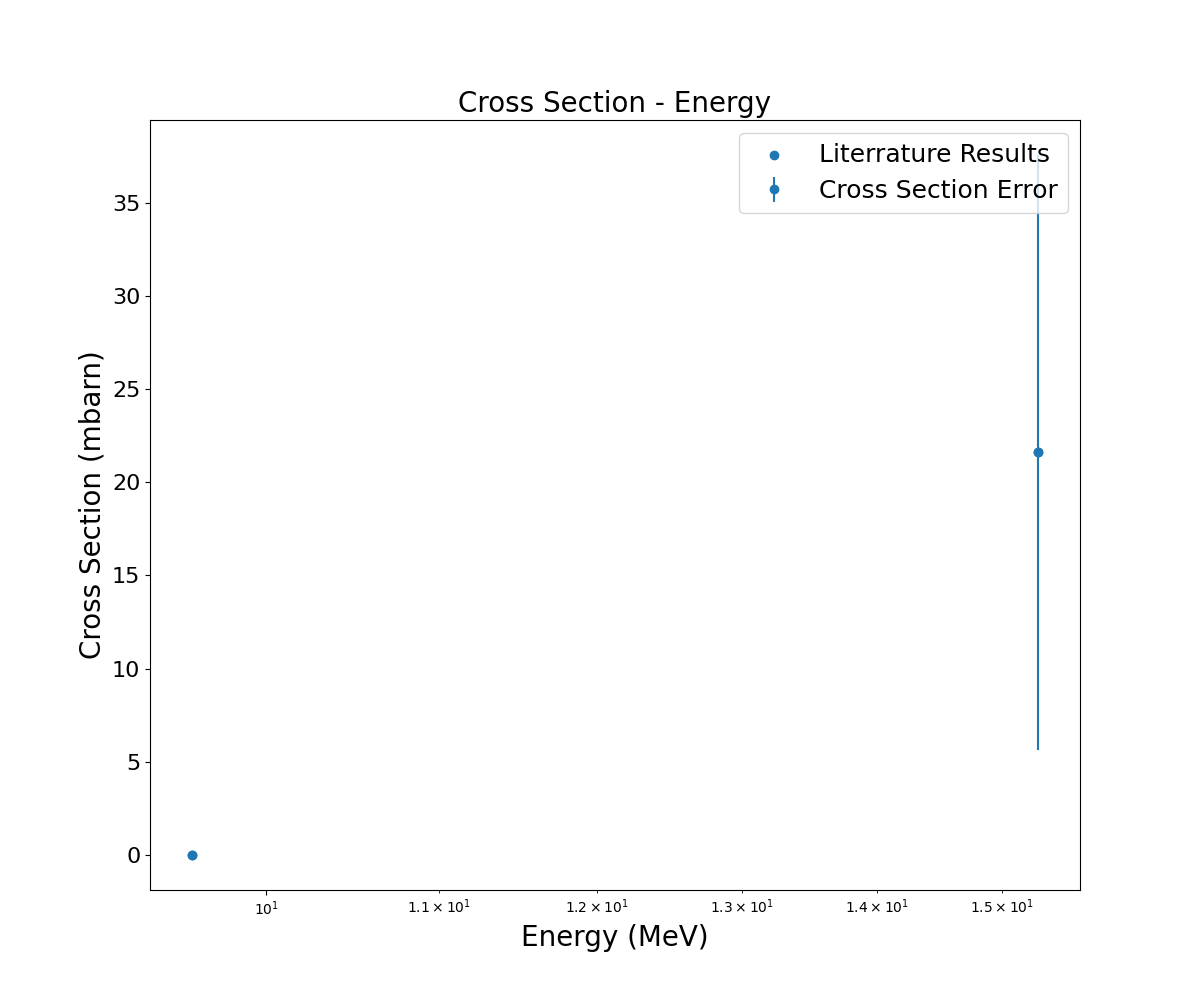
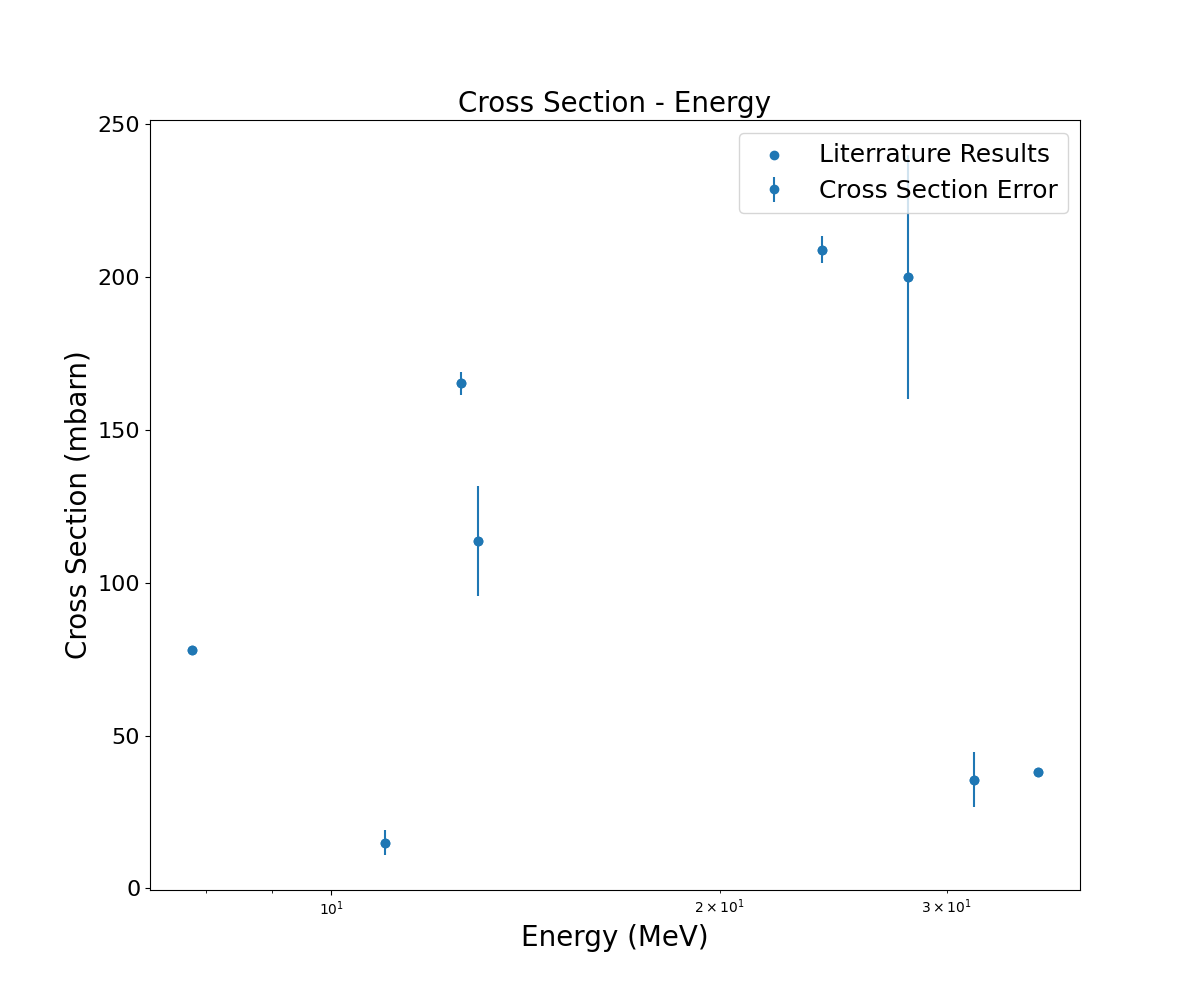
Fixes for Graph and general crashes

diff --git a/templates/results.html b/templates/results.html
@@ -46,9 +46,13 @@
                             <th>Electron Capture</td>
                         </tr>
                         <tr>
-                        {% for product in product %}
-                            <td>{{product}}</td>
-                        {% endfor %}
+                        {%if product%}
+                            {% for product in product %}
+                                <td>{{product}}</td>
+                            {% endfor %}
+                        {%else%}
+                            <h2>You forgot to add the product element :P</h2>
+                        {%endif%}
                         </tr>
                     </table>
                 </p>
@@ -126,7 +130,13 @@
                 </table>
                 </p>
                 <br>
-                <img id="Energy-Cross" src="../static/images/Plot.png" alt="Energy Plot">
+                {% set image_url = "../static/images/Plot.png" %}
+                {% if image_url %}
+                    <img id="Energy-Cross" src="{{ image_url }}" >
+                {% else %}
+                    <p>No image found.</p>
+                {% endif %}
+
                 <p>
             </div>
         </div>     

diff --git a/logic.py b/logic.py
@@ -8,6 +8,7 @@ plt.switch_backend('agg')
 from pathlib import Path
 import pandas as pd
 import numpy as np
+import os
 
 
 
@@ -32,15 +33,15 @@ file_path = Path("calculation.txt")
 
 
 def generate_plot(x_values,y_values,yerror, title, x_label, y_label):
-    # if file_path.exists():
-    #     dataframe=pd.read_csv("calculation.txt", delimiter=" ", skiprows=5, header=None)
-    #     print(dataframe)
-    #     energycal=dataframe[0]
-    #     crossSecCal=dataframe[1]
+    if file_path.exists():
+        dataframe=pd.read_csv("calculation.txt", delimiter=" ", skiprows=5, header=None)
+        print(dataframe)
+        energycal=dataframe[0]
+        crossSecCal=dataframe[1]
+        plt.plot(energycal,crossSecCal, "g",marker="+", label="Talys results")
     plt.figure(figsize=(12, 10))  # Set the figure size
     plt.scatter(x_values, y_values, marker='o', label="Literrature Results")  # Create the plot
     plt.errorbar(x_values, y_values, yerr=yerror, fmt='o', label="Cross Section Error")
-    #plt.plot(energycal,crossSecCal, "g",marker="+", label="Talys results")
     plt.title(title, size=20)  # Set the plot title
     decimal_places = 1  # Set the number of decimal places you want to display
     #plt.xticks(energycal, [f"{float(x):.{decimal_places}f}" for x in energycal], size=16)
@@ -150,6 +151,7 @@ def results():
                     FROM elements 
                     WHERE name='{inpElement}'"""
             elementDetails = execute_query(elementQuery)
+            print("elemetn", elementDetails)
 
             
             gammaQuery = f"""
@@ -182,20 +184,17 @@ def results():
             energy_values = [entry[2] for entry in energyResults]
             cross_Section = [entry[3] for entry in energyResults]
             yerror = [float(entry[4]) for entry in energyResults]
-            # for error in energyResults:
-            #     scientific_value_str = error[4]
-            #     try:
-            #         yerror = float(scientific_value_str)
-            #         print(yerror)
-            #     except ValueError as e:
-            #         print("Error converting:", e)
+        
 
             print("energyvalues",energy_values)
             print("cross Section",cross_Section)
             print("error",yerror)
+            if os.path.exists("static\images\Plot.png"):
+                os.remove("static\images\Plot.png") #Deletes existing figure to have a new one every time
+
             if any(value > 0 for value in energy_values) and any(cross > 0 for cross in cross_Section):
                 generate_plot(energy_values,cross_Section,yerror, "Cross Section - Energy", "Energy (MeV)", "Cross Section (mbarn)")
-        
+
 
             reactionQuery = f"""
                 SELECT
@@ -226,7 +225,10 @@ def results():
                         WHERE target.name='{inpElement}' AND reactions.type='{inpReaction}'"""
                 productResults = execute_query(productQuery)
                 print("product",productResults)
-                productElement = productResults[0][0]
+                if not productResults:
+                    productElement = "error"
+                else:
+                    productElement = productResults[0][0]
                 
                 gammaQueryPro = f"""
                         SELECT
@@ -280,6 +282,7 @@ def results():
             gammaList=list(map(lambda x: str(x).replace("NULL","None"), gammaList))
             pgammatList=list(map(lambda x: str(x).replace("NULL","None"), pgammatList))
             pXrayList=list(map(lambda x: str(x).replace("NULL","None"), pXrayList))
+            print("element", elementList)
 
             return render_template("results.html", target= elementList, targetGamma=gammaList, targetXray=xrayList, reactionDetails=reactionList, product=productList, productGamma=pgammatList, gammaresults=gammaResults, productXray=pXrayList, xrayresults=xrayResults, reactionresults=reactionResults)
         except Error as e:
